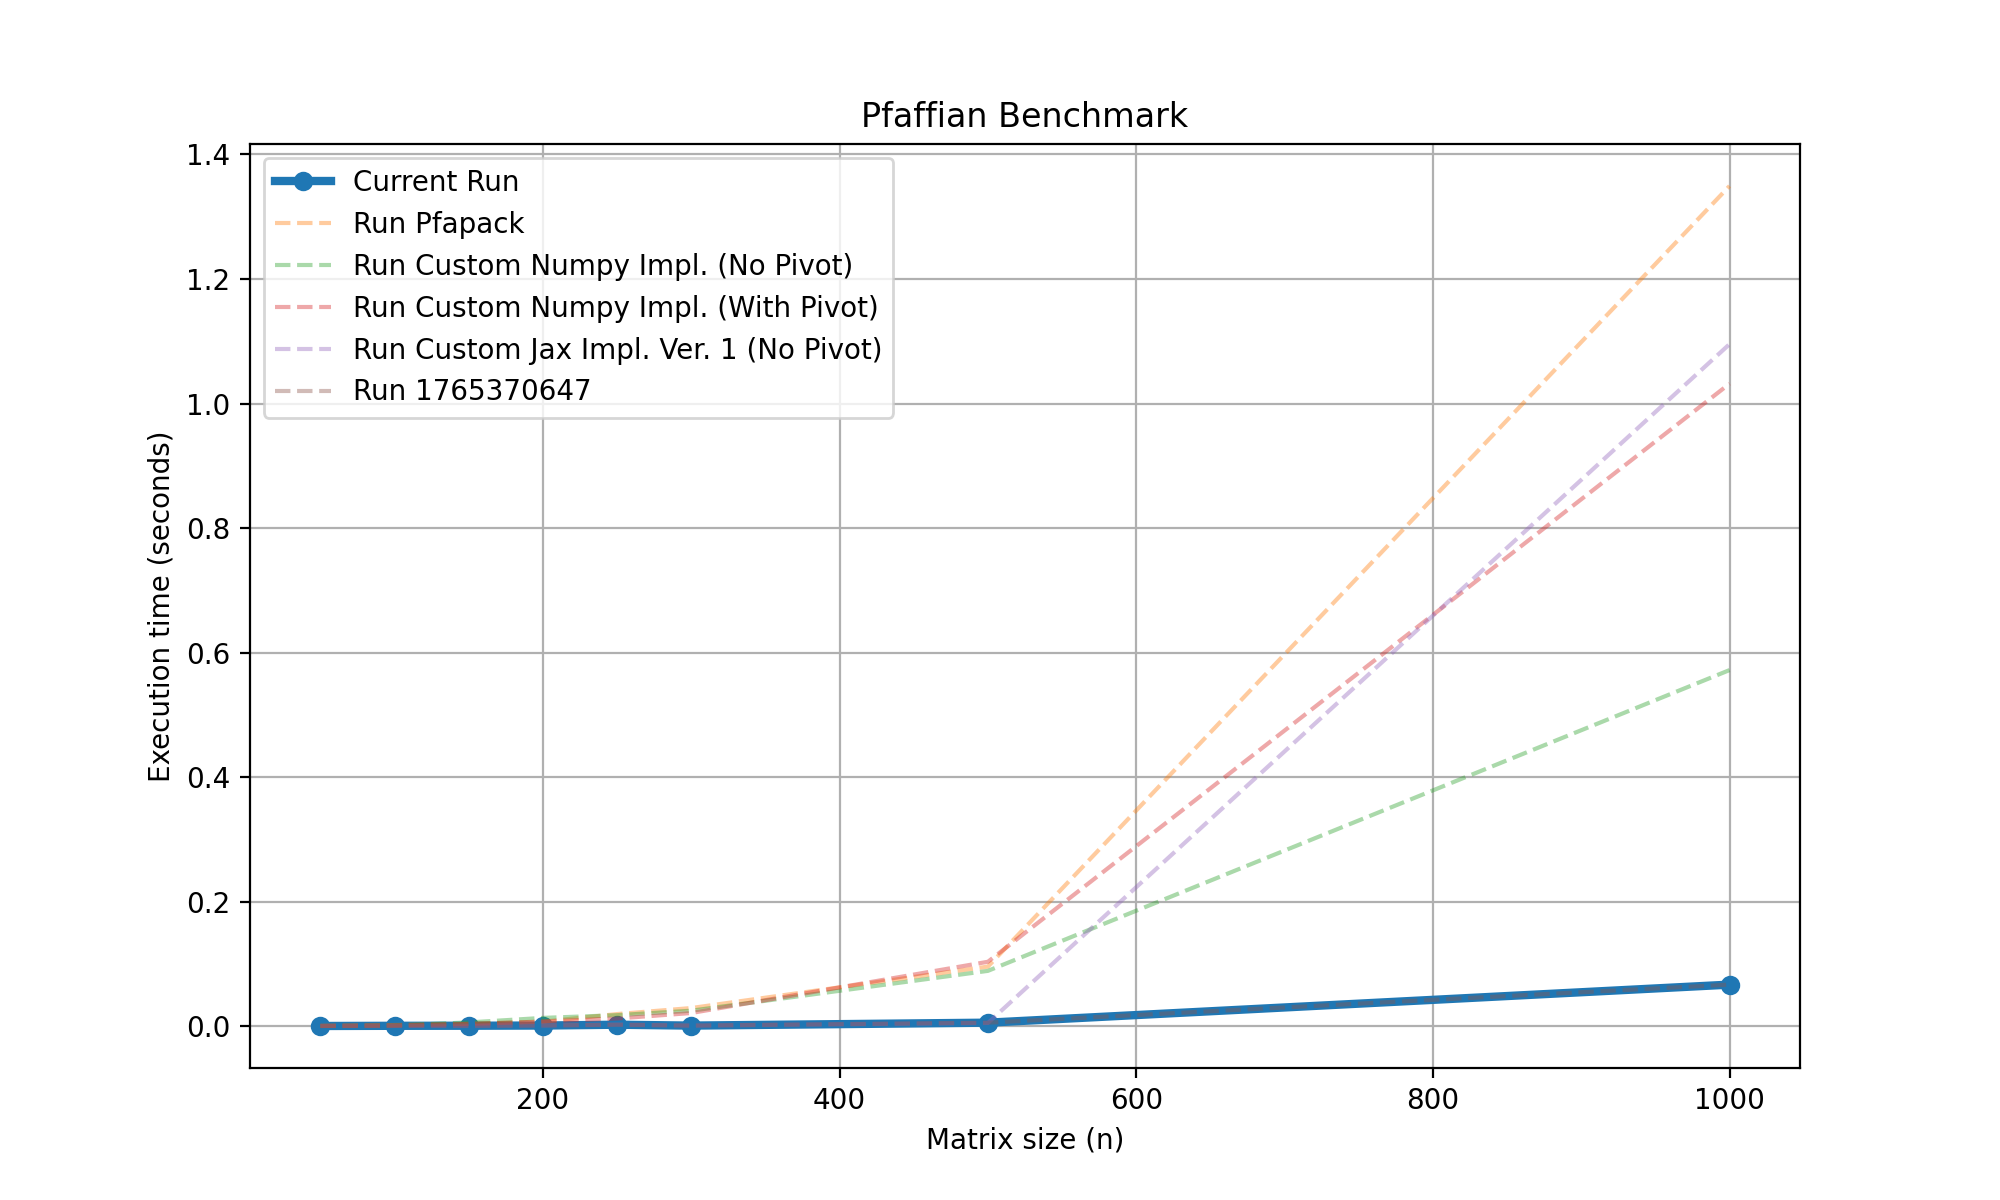
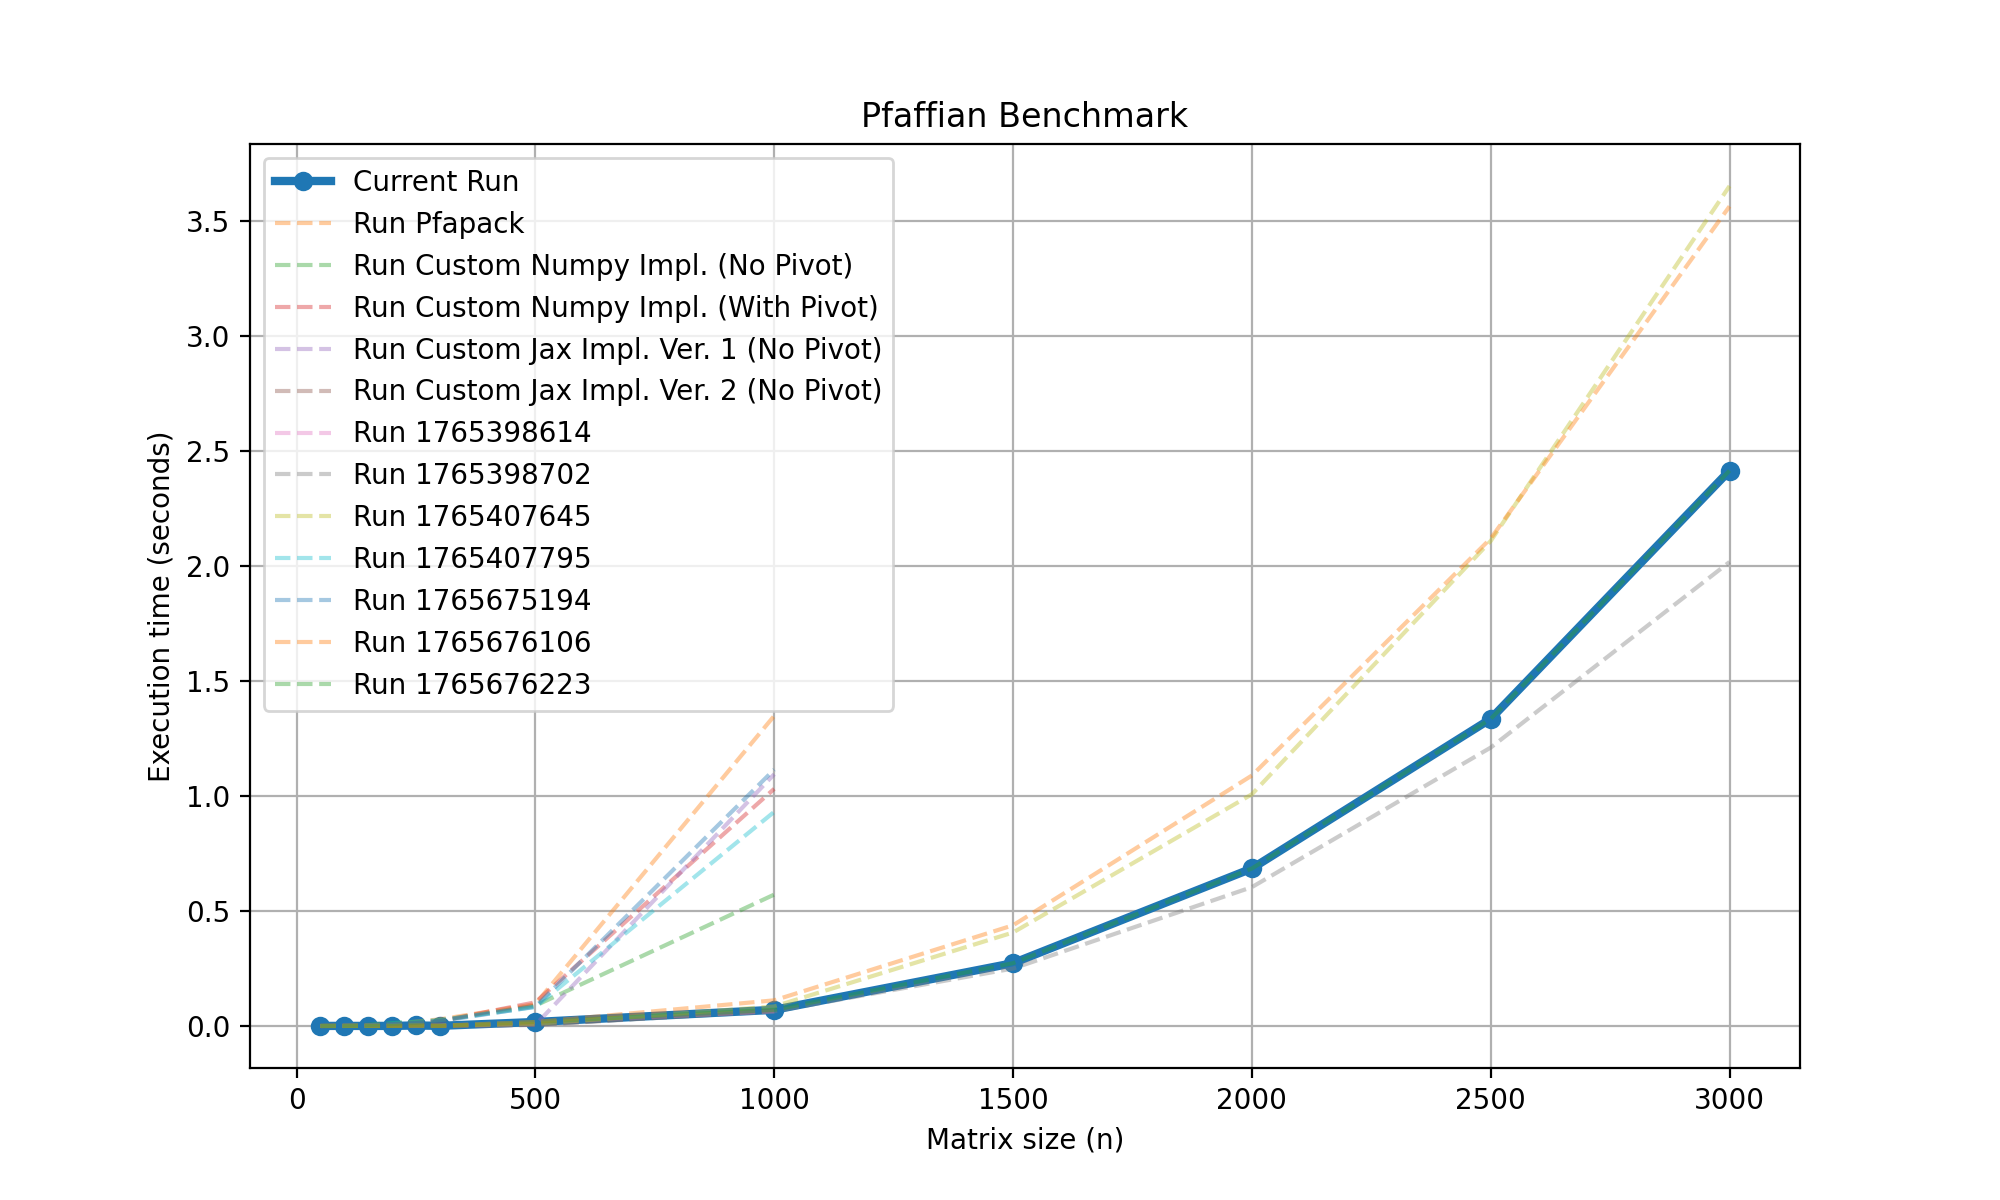
feat: optimizations

diff --git a/blocked/python/benchmark.py b/blocked/python/benchmark.py
@@ -7,7 +7,7 @@ import matplotlib.pyplot as plt
 # -------------------------------
 # Configuration
 # -------------------------------
-MATRIX_SIZES = [50, 100, 150, 200, 250, 300, 500, 1000]
+MATRIX_SIZES = [50, 100, 150, 200, 250, 300, 500, 1000, 1500, 2000, 2500, 3000]
 REPEATS = 5
 JSON_FILE = "benchmark_results.json"
 
@@ -119,6 +119,7 @@ if __name__ == "__main__":
     # from pfaffian_np_single_block import pfaffian
     # from pfapack.pfaffian import pfaffian
     from pfaffian_jax import pfaffian
+    # from pfaffian_basic import pfaffian
 
     backend = "numpy"
 

diff --git a/blocked/python/tests/pfaffian_test.py b/blocked/python/tests/pfaffian_test.py
@@ -5,18 +5,7 @@ import jax.numpy as jnp
 from scipy.linalg import schur
 
 from pfaffian_jax import pfaffian as pfaffian_py
-
-def pfaffian_naive(matrix):
-    if matrix.shape[0] == 0:
-        return 1.0
-
-    if matrix.shape[0] % 2 == 1:
-        return 0.0
-
-    blocks, O = schur(matrix)
-    a = np.diag(blocks, 1)[::2]
-
-    return np.prod(a) * np.linalg.det(O)
+from pfapack.pfaffian import pfaffian as pfaffian_naive
 
 def pfaffian_tridiag(upper_diag):
     n = len(upper_diag) + 1

diff --git a/blocked/python/pfaffian_np_single_block.py b/blocked/python/pfaffian_np_single_block.py
@@ -28,9 +28,9 @@ def pfaffian(A):
 
             result *= -1
 
-        uAk = A[k] + ((V[k] @ W.T) - (W[k] @ V.T))
+        uAk = A[k, k + 1:] + ((V[k] @ W.T[:, k + 1:]) - (W[k] @ V.T[:, k + 1:]))
 
-        V[k + 2:, k] = uAk[k + 2:] / uAk[k + 1]
+        V[k + 2:, k] = uAk[1:] / uAk[0]
         W[:, k] = A[:, k + 1] + ((W[k + 1] @ V.T) - (V[k + 1] @ W.T))
 
     VWt = V @ W.T
